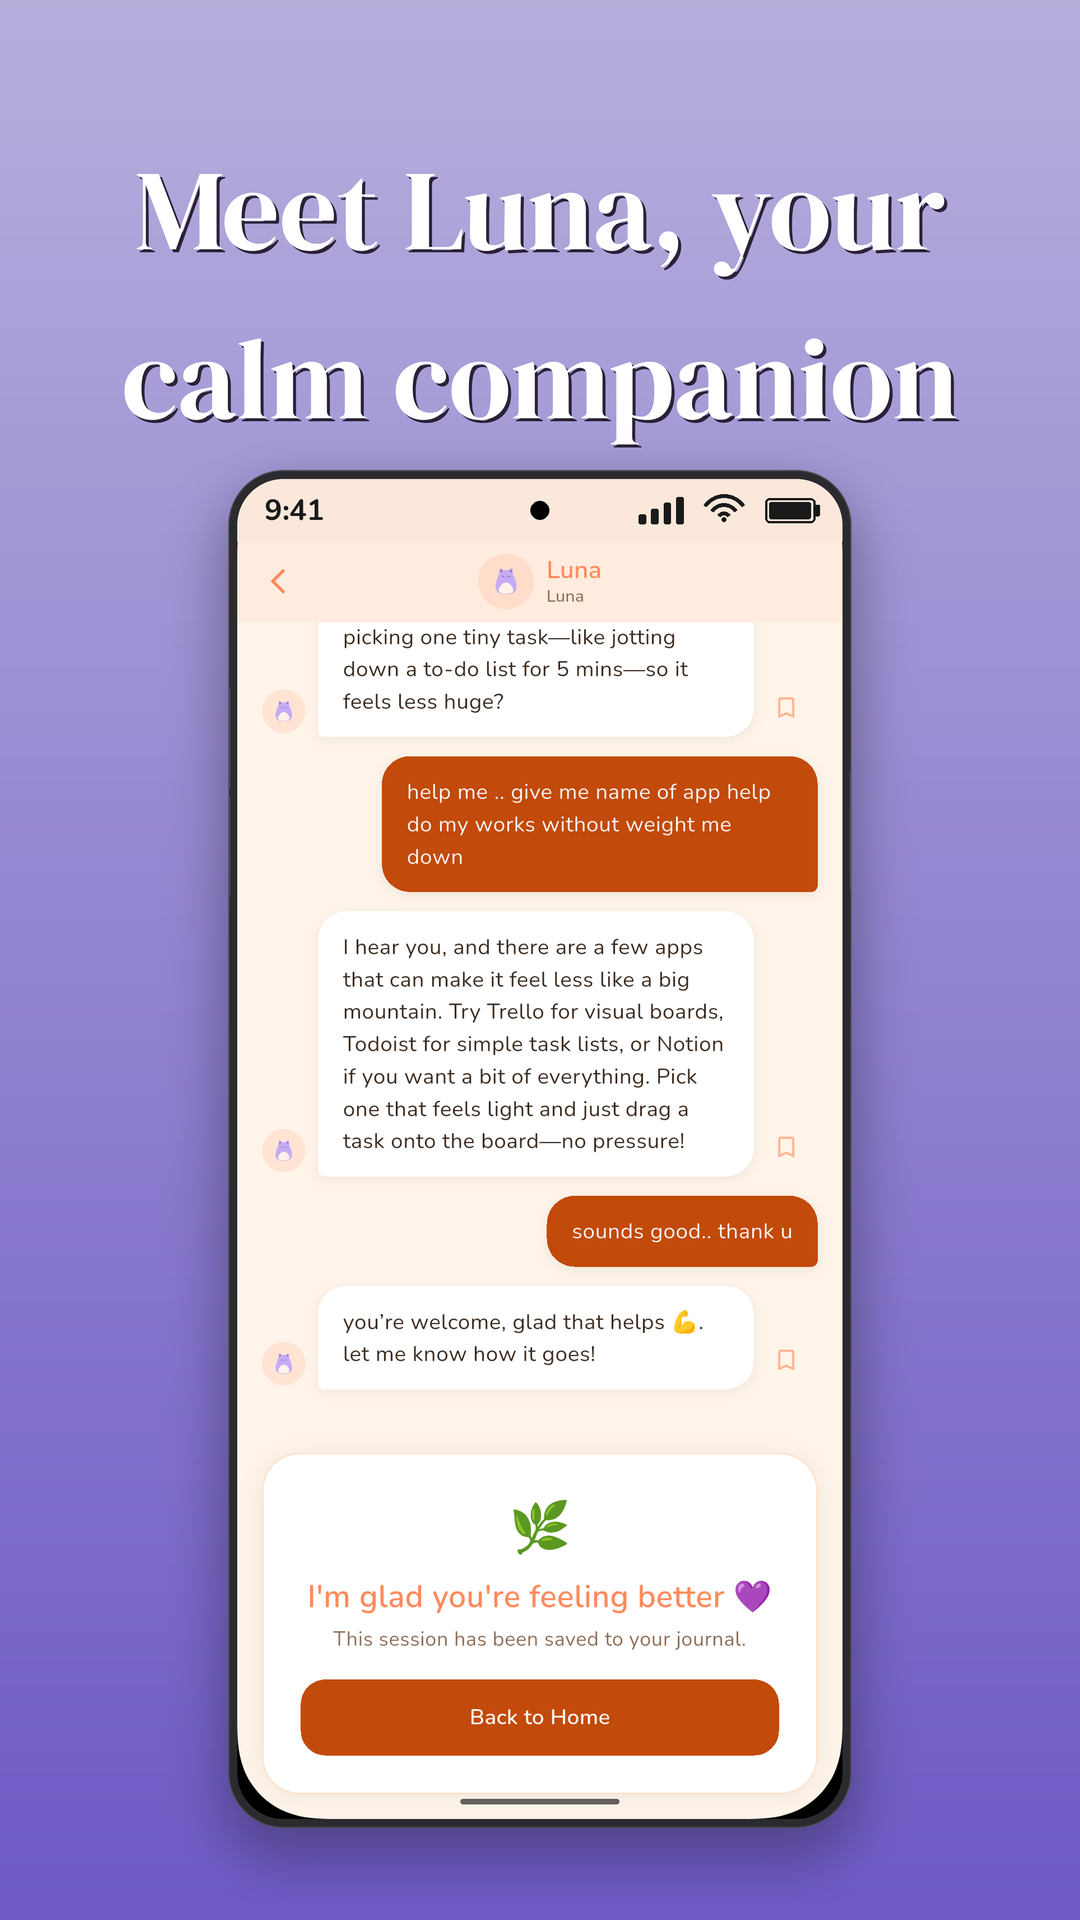
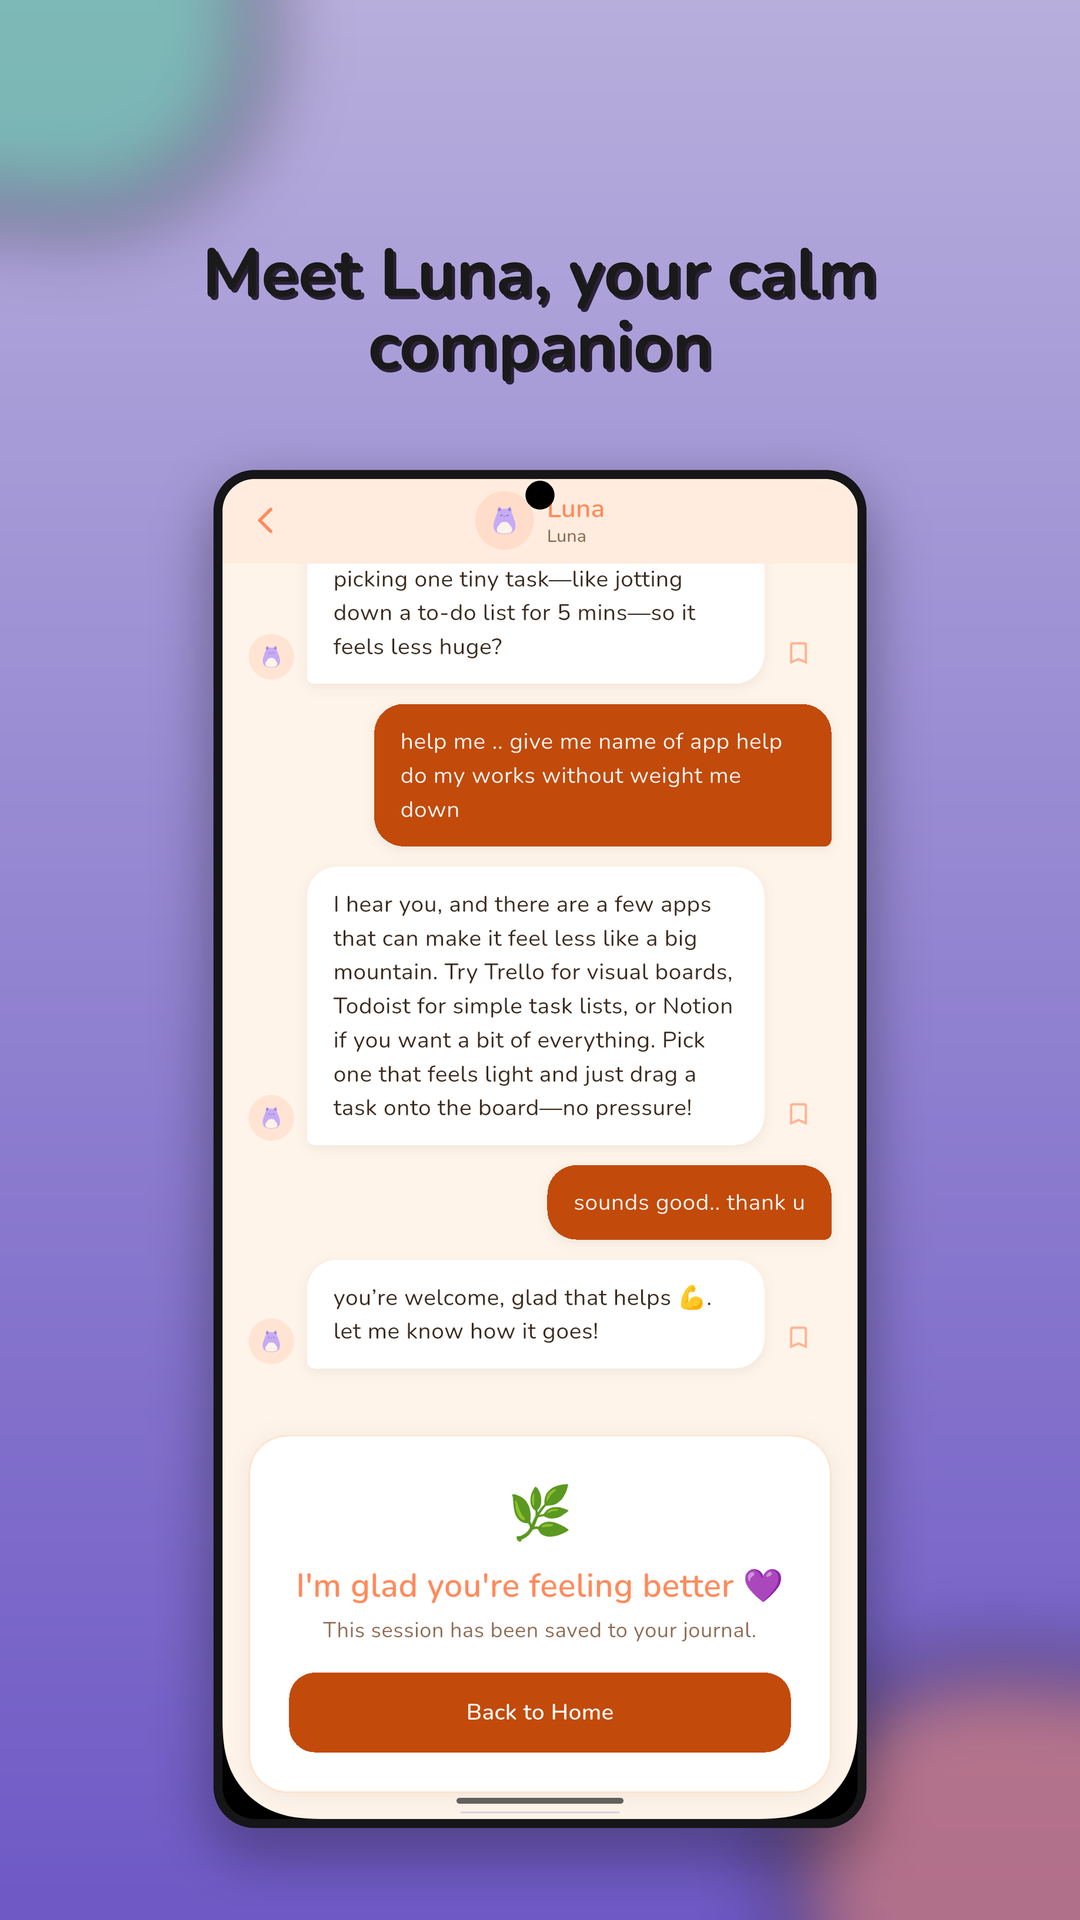
fix the store images

Changed region(s): [[0.0, 0.0, 1.0, 1.0]]

diff --git a/screenshots/store/generate_store_screenshots.py b/screenshots/store/generate_store_screenshots.py
@@ -1,11 +1,11 @@
 #!/usr/bin/env python3
 """Generate Lueur Google Play Store marketing screenshots.
 
-TikTok-style composition: headline (DM Serif Display) above a Samsung
-Galaxy S26-style phone frame (thin graphite bezel, centered punch-hole
-camera, synthetic One UI status bar) holding an app screenshot, on a brand
-lavender gradient. Rendered at 4x supersample and LANCZOS-downsampled to
-the final 1080x1920 for crisp text/edges.
+TikTok-style composition: headline (DM Serif Display) above a clean,
+generic modern-smartphone frame (thin dark bezel, centered punch-hole
+camera cut into the screen edge, bottom home indicator) holding an app
+screenshot, on a brand lavender gradient. Rendered at 4x supersample and
+LANCZOS-downsampled to the final 1080x1920 for crisp text/edges.
 """
 
 import os
@@ -17,8 +17,8 @@ OUT_DIR = os.path.join(SCREENSHOTS_DIR, "store")
 FONTS_DIR = os.path.join(ROOT, "assets", "fonts")
 
 HEADLINE_FONT_PATH = os.path.join(FONTS_DIR, "DMSerifDisplay-Regular.ttf")
+HEADLINE_FONT_PATH_SANS = os.path.join(FONTS_DIR, "Nunito-Bold.ttf")
 BODY_FONT_PATH = os.path.join(FONTS_DIR, "Nunito-SemiBold.ttf")
-STATUS_FONT_PATH = os.path.join(FONTS_DIR, "Nunito-Bold.ttf")
 
 SCALE = 4
 FINAL_W, FINAL_H = 1080, 1920
@@ -33,21 +33,25 @@ TOP_MARGIN = 130 * SCALE
 HEADLINE_BLOCK_H = 340 * SCALE
 BOTTOM_MARGIN = 110 * SCALE
 
-# Samsung Galaxy S26-style frame: thin graphite bezel, modestly rounded
-# corners (flatter than an iPhone frame), centered punch-hole camera.
-FRAME_CORNER_R = 46 * SCALE
+# Clean, generic modern-smartphone frame: thin uniform dark bezel, modestly
+# rounded corners, centered punch-hole camera, bottom home indicator — not
+# tied to any specific real device model.
+FRAME_CORNER_R = 32 * SCALE
 BEZEL_WIDTH = 9 * SCALE
-BEZEL_COLOR = (0x2A, 0x2A, 0x2F, 255)
-BEZEL_HIGHLIGHT = (0x4A, 0x4A, 0x52, 255)
+BEZEL_COLOR = (0x16, 0x16, 0x18, 255)
 
-# Synthetic One UI status bar drawn on top of every cropped screenshot.
-STATUS_BAR_FRACTION = 0.046
-PUNCH_HOLE_FRACTION = 0.30
+# Punch-hole camera dot, sized as a fraction of the frame width. Modeled on
+# the Galaxy S26's centered front camera: a small circle fully inset within
+# the display glass (not straddling the bezel seam), offset a touch down
+# from the very top edge of the screen.
+PUNCH_HOLE_FRACTION = 0.045
+PUNCH_HOLE_INSET_FRACTION = 0.003
 
 # Every raw emulator capture bakes in an oversized punch-hole camera blob in
 # the status bar (rows ~45-128 at the 1080px source width) — not something
 # this script draws. Crop it off the top of every screenshot before framing,
-# then a clean synthetic status bar + punch hole is drawn back on below.
+# so the screen content flows edge-to-edge from just below the synthetic
+# punch hole.
 NOTCH_CROP_TOP = 145
 
 SCREENS = [
@@ -77,6 +81,11 @@ SCREENS = [
         "out": "store-screenshot-5.png",
         "headline": "Always in your language",
         "screenshot": "profile_with_theming_langs_dark.png",
+        # Reconstructed from the previous rendered store screenshot (the raw
+        # capture was lost) — already a clean crop with no punch-hole blob
+        # to trim, so skip the usual top crop.
+        "crop_top": 0,
+        "skip_notch_crop": True,
     },
     {
         "out": "store-screenshot-6.png",
@@ -93,10 +102,16 @@ SCREENS = [
         "headline": "A small puzzle to unwind",
         "screenshot": "sudoku_screen_dark.png",
     },
+    {
+        "out": "store-screenshot-9.png",
+        "headline": "Your journey, all in one place",
+        "screenshot": "profile_journey_dark.png",
+    },
 ]
 
 for _entry in SCREENS:
-    _entry["crop_top"] = max(_entry.get("crop_top", 0), NOTCH_CROP_TOP)
+    if not _entry.get("skip_notch_crop"):
+        _entry["crop_top"] = max(_entry.get("crop_top", 0), NOTCH_CROP_TOP)
 
 
 def vertical_gradient(width, height, top_rgb, bottom_rgb):
@@ -130,10 +145,10 @@ def wrap_text(draw, text, font, max_width):
 def fit_headline_font(draw, text, max_width, max_height, start_size):
     size = start_size
     while size > 40 * SCALE:
-        font = ImageFont.truetype(HEADLINE_FONT_PATH, size)
+        font = ImageFont.truetype(HEADLINE_FONT_PATH_SANS, size)
         lines = wrap_text(draw, text, font, max_width)
         ascent, descent = font.getmetrics()
-        line_height = (ascent + descent) * 1.08
+        line_height = (ascent + descent) * 0.78
         total_height = line_height * len(lines)
         widest = max(draw.textbbox((0, 0), line, font=font)[2] for line in lines)
         if total_height <= max_height and widest <= max_width:
@@ -145,7 +160,7 @@ def fit_headline_font(draw, text, max_width, max_height, start_size):
 def draw_headline(canvas_draw, text):
     max_width = W - 2 * MARGIN_X
     font, lines, line_height = fit_headline_font(
-        canvas_draw, text, max_width, HEADLINE_BLOCK_H, 118 * SCALE
+        canvas_draw, text, max_width, HEADLINE_BLOCK_H, 68 * SCALE
     )
     total_height = line_height * len(lines)
     y = TOP_MARGIN + (HEADLINE_BLOCK_H - total_height) / 2
@@ -157,9 +172,9 @@ def draw_headline(canvas_draw, text):
             (x + shadow_offset, y + shadow_offset),
             line,
             font=font,
-            fill=(0x2B, 0x21, 0x38, 70),
+            fill=(0x2B, 0x21, 0x38, 40),
         )
-        canvas_draw.text((x, y), line, font=font, fill=(0xFF, 0xFF, 0xFF, 255))
+        canvas_draw.text((x, y), line, font=font, fill=(0x1A, 0x1A, 0x1A, 255))
         y += line_height
     return TOP_MARGIN + total_height
 
@@ -172,116 +187,11 @@ def rounded_mask(size, radius):
     return mask
 
 
-def luminance(rgb):
-    r, g, b = rgb
-    return 0.299 * r + 0.587 * g + 0.114 * b
-
-
-def draw_status_bar_icons(draw, right_edge, mid_y, icon_h, color):
-    """Draw simple signal / wifi / battery glyphs, right-aligned at right_edge."""
-    gap = icon_h * 0.55
-
-    # Battery (rightmost): outline + fill + nub.
-    batt_w, batt_h = icon_h * 1.9, icon_h * 0.95
-    batt_x1 = right_edge
-    batt_x0 = batt_x1 - batt_w
-    batt_y0 = mid_y - batt_h / 2
-    batt_y1 = mid_y + batt_h / 2
-    nub_w = icon_h * 0.18
-    draw.rounded_rectangle(
-        [(batt_x0, batt_y0), (batt_x1, batt_y1)], radius=icon_h * 0.16,
-        outline=color, width=max(1, round(icon_h * 0.09)),
-    )
-    draw.rounded_rectangle(
-        [(batt_x1, mid_y - batt_h * 0.22), (batt_x1 + nub_w, mid_y + batt_h * 0.22)],
-        radius=icon_h * 0.05, fill=color,
-    )
-    pad = icon_h * 0.16
-    draw.rounded_rectangle(
-        [(batt_x0 + pad, batt_y0 + pad), (batt_x1 - pad, batt_y1 - pad)],
-        radius=icon_h * 0.08, fill=color,
-    )
-
-    # Wifi (middle): three concentric arcs + dot.
-    wifi_cx = batt_x0 - gap - icon_h
-    wifi_cy = mid_y + icon_h * 0.35
-    for i, r in enumerate((icon_h * 0.95, icon_h * 0.62, icon_h * 0.3)):
-        bbox = [(wifi_cx - r, wifi_cy - r), (wifi_cx + r, wifi_cy + r)]
-        draw.arc(bbox, start=215, end=325, fill=color, width=max(1, round(icon_h * 0.14)))
-    dot_r = icon_h * 0.09
-    draw.ellipse(
-        [(wifi_cx - dot_r, wifi_cy - dot_r), (wifi_cx + dot_r, wifi_cy + dot_r)], fill=color
-    )
-
-    # Signal bars (leftmost): 4 ascending bars.
-    bars_w = icon_h * 1.7
-    bar_x1 = wifi_cx - icon_h - gap
-    bar_x0 = bar_x1 - bars_w
-    n = 4
-    bar_gap = bars_w * 0.12
-    bar_w = (bars_w - bar_gap * (n - 1)) / n
-    base_y = mid_y + icon_h * 0.5
-    for i in range(n):
-        bh = icon_h * (0.35 + 0.22 * i)
-        x0 = bar_x0 + i * (bar_w + bar_gap)
-        x1 = x0 + bar_w
-        y1 = base_y
-        y0 = base_y - bh
-        draw.rounded_rectangle([(x0, y0), (x1, y1)], radius=bar_w * 0.25, fill=color)
-
-    return bar_x0
-
-
-def build_status_bar(width, bg_color):
-    # Height is a fixed fraction of the standard 1080x2424 source captures'
-    # full screen height (not of `width`), so it matches real status-bar
-    # proportions regardless of how much of the screenshot got cropped.
-    status_h = round(2424 * STATUS_BAR_FRACTION)
-
-    bar = Image.new("RGB", (width, status_h), bg_color)
-    draw = ImageDraw.Draw(bar)
-
-    text_color = (0x1A, 0x1A, 0x1A) if luminance(bg_color) > 140 else (0xFF, 0xFF, 0xFF)
-
-    font_size = round(status_h * 0.46)
-    try:
-        font = ImageFont.truetype(STATUS_FONT_PATH, font_size)
-    except OSError:
-        font = ImageFont.truetype(BODY_FONT_PATH, font_size)
-    pad_x = round(width * 0.045)
-    draw.text((pad_x, status_h / 2), "9:41", font=font, fill=text_color, anchor="lm")
-
-    icon_h = status_h * 0.42
-    draw_status_bar_icons(draw, width - pad_x, status_h / 2, icon_h, text_color)
-
-    # Centered punch-hole camera.
-    r = status_h * PUNCH_HOLE_FRACTION / 2
-    cx, cy = width / 2, status_h / 2
-    draw.ellipse([(cx - r, cy - r), (cx + r, cy + r)], fill=(0, 0, 0))
-
-    return bar, status_h
-
-
-def sample_bg_color(img, y=2):
-    row = [img.getpixel((x, y)) for x in range(0, img.width, max(1, img.width // 40))]
-    r = sum(p[0] for p in row) // len(row)
-    g = sum(p[1] for p in row) // len(row)
-    b = sum(p[2] for p in row) // len(row)
-    return (r, g, b)
-
-
 def build_phone_frame(screenshot_path, frame_top, frame_bottom, crop_top=0):
     frame_h = frame_bottom - frame_top
     shot = Image.open(screenshot_path).convert("RGB")
     if crop_top:
         shot = shot.crop((0, crop_top, shot.width, shot.height))
-
-    bg_color = sample_bg_color(shot)
-    status_bar, status_h = build_status_bar(shot.width, bg_color)
-    combined = Image.new("RGB", (shot.width, shot.height + status_h))
-    combined.paste(status_bar, (0, 0))
-    combined.paste(shot, (0, status_h))
-    shot = combined
 
     aspect = shot.width / shot.height
     frame_w = int(frame_h * aspect)
@@ -294,21 +204,24 @@ def build_phone_frame(screenshot_path, frame_top, frame_bottom, crop_top=0):
         radius=FRAME_CORNER_R + BEZEL_WIDTH,
         fill=BEZEL_COLOR,
     )
-    # Thin highlight ring for a machined-metal edge look.
-    bezel_draw.rounded_rectangle(
-        [(0, 0), (bezel.width - 1, bezel.height - 1)],
-        radius=FRAME_CORNER_R + BEZEL_WIDTH,
-        outline=BEZEL_HIGHLIGHT,
-        width=max(1, round(SCALE * 1.2)),
-    )
 
     shot_resized = shot.resize((frame_w, frame_h), Image.Resampling.LANCZOS)
     inner_mask = rounded_mask((frame_w, frame_h), FRAME_CORNER_R)
     bezel.paste(shot_resized, (BEZEL_WIDTH, BEZEL_WIDTH), inner_mask)
 
-    # Power button (right edge) and volume rocker (left edge) for a
-    # recognizable Galaxy S silhouette.
-    btn_color = BEZEL_HIGHLIGHT
+    # Punch-hole camera dot, fully inset within the screen content (like a
+    # real in-display camera cutout) rather than a separate status-bar icon.
+    hole_r = frame_w * PUNCH_HOLE_FRACTION / 2
+    hole_cx = BEZEL_WIDTH + frame_w / 2
+    hole_cy = BEZEL_WIDTH + frame_w * PUNCH_HOLE_INSET_FRACTION + hole_r
+    bezel_draw.ellipse(
+        [(hole_cx - hole_r, hole_cy - hole_r), (hole_cx + hole_r, hole_cy + hole_r)],
+        fill=(0, 0, 0, 255),
+    )
+
+    # Power button (right edge) and volume rocker (left edge) — subtle marks
+    # in the same flat bezel tone, just enough to read as a phone silhouette.
+    btn_color = BEZEL_COLOR
     power_h = bezel.height * 0.09
     power_y0 = bezel.height * 0.22
     bezel_draw.rounded_rectangle(
@@ -321,6 +234,18 @@ def build_phone_frame(screenshot_path, frame_top, frame_bottom, crop_top=0):
             [(-SCALE * 2, vol_y0), (SCALE * 2, vol_y0 + vol_h)],
             radius=SCALE * 2, fill=btn_color,
         )
+
+    # Home indicator: short rounded bar centered at the bottom of the
+    # screen area, the detail that reads as "clean modern phone".
+    indicator_w = frame_w * 0.25
+    indicator_h = 1.6 * SCALE
+    indicator_x0 = BEZEL_WIDTH + (frame_w - indicator_w) / 2
+    indicator_y1 = BEZEL_WIDTH + frame_h - 6 * SCALE
+    bezel_draw.rounded_rectangle(
+        [(indicator_x0, indicator_y1 - indicator_h), (indicator_x0 + indicator_w, indicator_y1)],
+        radius=indicator_h / 2,
+        fill=(0xF2, 0xF2, 0xF2, 210),
+    )
 
     shadow = Image.new("RGBA", (bezel.width + 160 * SCALE, bezel.height + 160 * SCALE), (0, 0, 0, 0))
     shadow_draw = ImageDraw.Draw(shadow)
@@ -337,6 +262,22 @@ def build_phone_frame(screenshot_path, frame_top, frame_bottom, crop_top=0):
 
 def render(entry):
     canvas = vertical_gradient(W, H, GRADIENT_TOP, GRADIENT_BOTTOM).convert("RGBA")
+
+    accent_layer = Image.new("RGBA", (W, H), (0, 0, 0, 0))
+    accent_draw = ImageDraw.Draw(accent_layer)
+    # Soft mint blob, top-left
+    accent_draw.ellipse(
+        [-120 * SCALE, -140 * SCALE, 260 * SCALE, 220 * SCALE],
+        fill=(0x5B, 0xBF, 0xA0, 160),
+    )
+    # Soft orange blob, bottom-right
+    accent_draw.ellipse(
+        [W - 300 * SCALE, H - 260 * SCALE, W + 140 * SCALE, H + 100 * SCALE],
+        fill=(0xE8, 0x82, 0x5A, 140),
+    )
+    accent_layer = accent_layer.filter(ImageFilter.GaussianBlur(40 * SCALE))
+    canvas = Image.alpha_composite(canvas, accent_layer)
+
     draw = ImageDraw.Draw(canvas)
 
     draw_headline(draw, entry["headline"])

diff --git a/README.md b/README.md
@@ -159,8 +159,8 @@ The flow below follows the app in order — onboarding → sign in → capture a
   </tr>
   <tr>
     <td>Profile & settings</td>
-    <td><img src="screenshots/profile_light.png" width="180" alt="Profile & settings, light theme"/></td>
-    <td><img src="screenshots/profile_dark.png" width="180" alt="Profile & settings, dark theme"/></td>
+    <td><img src="screenshots/profile_journey_light.png" width="180" alt="Profile & settings, light theme"/></td>
+    <td><img src="screenshots/profile_journey_dark.png" width="180" alt="Profile & settings, dark theme"/></td>
   </tr>
 </table>
 
